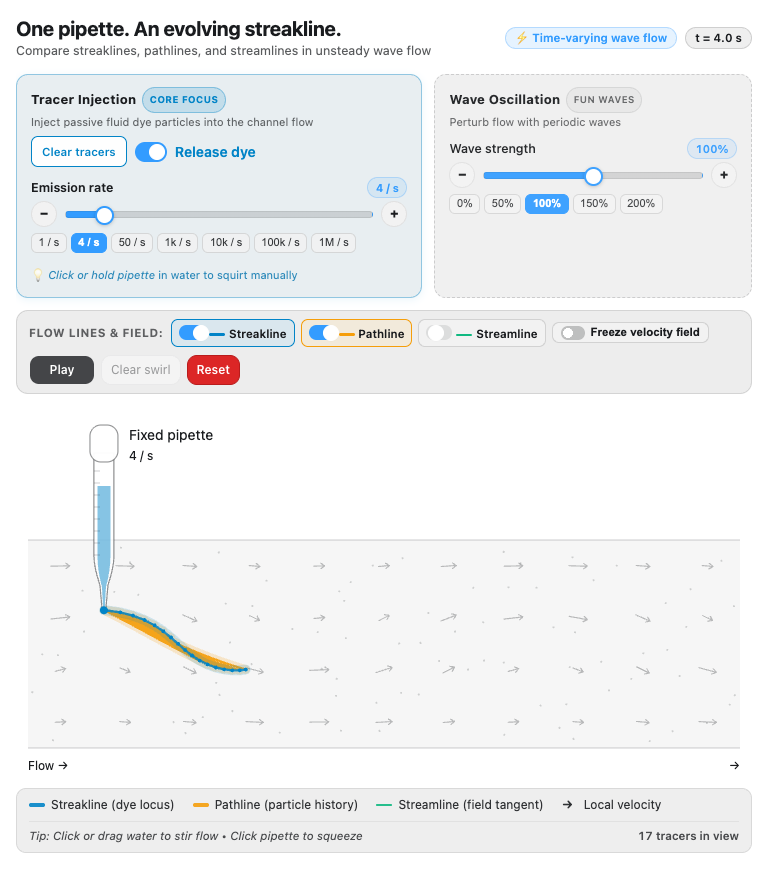
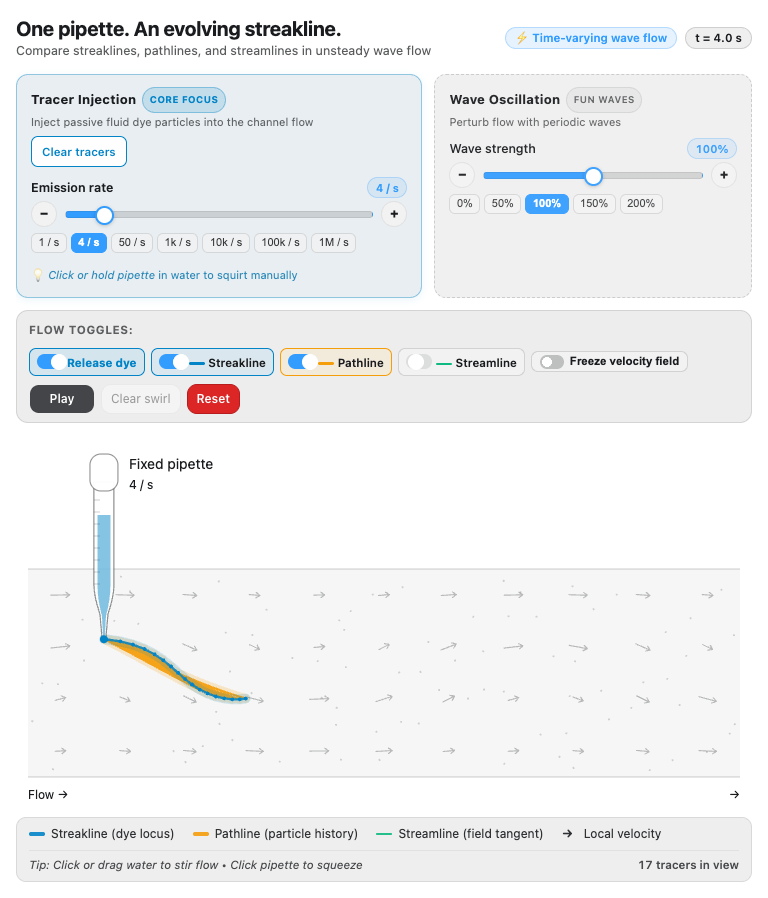
Move tracer release toggle to unified flow toggle line

diff --git a/dist/index.html b/dist/index.html
@@ -1349,13 +1349,7 @@ html&gt;body{padding:0}&lt;/style&gt;
           &lt;/div&gt;
           &lt;span class=&quot;sl-card-desc&quot;&gt;Inject passive fluid dye particles into the channel flow&lt;/span&gt;
         &lt;/div&gt;
-        &lt;div class=&quot;sl-tracer-actions&quot;&gt;
-          &lt;button type=&quot;button&quot; class=&quot;btn btn-secondary sl-btn-compact&quot; id=&quot;sl-clear-tracers&quot; disabled&gt;Clear tracers&lt;/button&gt;
-          &lt;label class=&quot;form-check form-switch sl-dye-switch&quot; for=&quot;sl-dye&quot;&gt;
-            &lt;input class=&quot;form-check-input&quot; type=&quot;checkbox&quot; id=&quot;sl-dye&quot;&gt;
-            &lt;span class=&quot;form-check-label sl-dye-label&quot;&gt;Release dye&lt;/span&gt;
-          &lt;/label&gt;
-        &lt;/div&gt;
+        &lt;button type=&quot;button&quot; class=&quot;btn btn-secondary sl-btn-compact&quot; id=&quot;sl-clear-tracers&quot; disabled&gt;Clear tracers&lt;/button&gt;
       &lt;/div&gt;
       &lt;label class=&quot;form-label&quot; for=&quot;sl-rate&quot;&gt;
         &lt;div class=&quot;sl-label-row&quot;&gt;
@@ -1425,8 +1419,14 @@ html&gt;body{padding:0}&lt;/style&gt;
   &lt;!-- Diagnostic Lines &amp; Action Controls Bar --&gt;
   &lt;div class=&quot;sl-control-deck&quot;&gt;
     &lt;div class=&quot;sl-lines-deck&quot;&gt;
-      &lt;span class=&quot;sl-deck-label&quot;&gt;Flow Lines &amp; Field:&lt;/span&gt;
+      &lt;span class=&quot;sl-deck-label&quot;&gt;Flow Toggles:&lt;/span&gt;
       &lt;div class=&quot;sl-lines-pills&quot;&gt;
+        &lt;label class=&quot;form-check form-switch sl-line-pill sl-pill-dye&quot; for=&quot;sl-dye&quot;&gt;
+          &lt;input class=&quot;form-check-input&quot; type=&quot;checkbox&quot; id=&quot;sl-dye&quot;&gt;
+          &lt;span class=&quot;form-check-label&quot;&gt;
+            &lt;span class=&quot;sl-pill-title&quot;&gt;Release dye&lt;/span&gt;
+          &lt;/span&gt;
+        &lt;/label&gt;
         &lt;label class=&quot;form-check form-switch sl-line-pill sl-pill-streak&quot; for=&quot;sl-line-toggle&quot;&gt;
           &lt;input class=&quot;form-check-input&quot; type=&quot;checkbox&quot; id=&quot;sl-line-toggle&quot;&gt;
           &lt;span class=&quot;form-check-label&quot;&gt;
@@ -1975,6 +1975,14 @@ html&gt;body{padding:0}&lt;/style&gt;
     border-color: color-mix(in srgb, var(--foreground) 30%, transparent);
     background: color-mix(in srgb, var(--foreground) 4%, var(--card));
   }
+  #streakline-lab .sl-line-pill.is-active.sl-pill-dye {
+    border-color: #0284c7;
+    background: color-mix(in srgb, #0284c7 12%, var(--card));
+  }
+  #streakline-lab .sl-line-pill.is-active.sl-pill-dye .sl-pill-title {
+    color: #0284c7;
+    font-weight: 700;
+  }
   #streakline-lab .sl-line-pill.is-active.sl-pill-streak {
     border-color: #0284c7;
     background: color-mix(in srgb, #0284c7 10%, var(--card));
@@ -2486,6 +2494,8 @@ html&gt;body{padding:0}&lt;/style&gt;
     pause.textContent = state.paused ? &#x27;Play&#x27; : &#x27;Pause&#x27;;
     pause.setAttribute(&#x27;aria-label&#x27;, state.paused ? &#x27;Play flow simulation&#x27; : &#x27;Pause flow simulation&#x27;);
     release.checked = state.injecting;
+    const dyePill = release.closest(&#x27;.sl-line-pill&#x27;);
+    if (dyePill) dyePill.classList.toggle(&#x27;is-active&#x27;, state.injecting);
     lineToggle.checked = state.line;
     const streakPill = lineToggle.closest(&#x27;.sl-line-pill&#x27;);
     if (streakPill) streakPill.classList.toggle(&#x27;is-active&#x27;, state.line);
@@ -2793,6 +2803,7 @@ html&gt;body{padding:0}&lt;/style&gt;
   layout(); requestAnimationFrame(animate);
 })();
 &lt;/script&gt;
+
 
 
 

diff --git a/outputs/streakline-demo.html b/outputs/streakline-demo.html
@@ -1349,13 +1349,7 @@ html&gt;body{padding:0}&lt;/style&gt;
           &lt;/div&gt;
           &lt;span class=&quot;sl-card-desc&quot;&gt;Inject passive fluid dye particles into the channel flow&lt;/span&gt;
         &lt;/div&gt;
-        &lt;div class=&quot;sl-tracer-actions&quot;&gt;
-          &lt;button type=&quot;button&quot; class=&quot;btn btn-secondary sl-btn-compact&quot; id=&quot;sl-clear-tracers&quot; disabled&gt;Clear tracers&lt;/button&gt;
-          &lt;label class=&quot;form-check form-switch sl-dye-switch&quot; for=&quot;sl-dye&quot;&gt;
-            &lt;input class=&quot;form-check-input&quot; type=&quot;checkbox&quot; id=&quot;sl-dye&quot;&gt;
-            &lt;span class=&quot;form-check-label sl-dye-label&quot;&gt;Release dye&lt;/span&gt;
-          &lt;/label&gt;
-        &lt;/div&gt;
+        &lt;button type=&quot;button&quot; class=&quot;btn btn-secondary sl-btn-compact&quot; id=&quot;sl-clear-tracers&quot; disabled&gt;Clear tracers&lt;/button&gt;
       &lt;/div&gt;
       &lt;label class=&quot;form-label&quot; for=&quot;sl-rate&quot;&gt;
         &lt;div class=&quot;sl-label-row&quot;&gt;
@@ -1425,8 +1419,14 @@ html&gt;body{padding:0}&lt;/style&gt;
   &lt;!-- Diagnostic Lines &amp; Action Controls Bar --&gt;
   &lt;div class=&quot;sl-control-deck&quot;&gt;
     &lt;div class=&quot;sl-lines-deck&quot;&gt;
-      &lt;span class=&quot;sl-deck-label&quot;&gt;Flow Lines &amp; Field:&lt;/span&gt;
+      &lt;span class=&quot;sl-deck-label&quot;&gt;Flow Toggles:&lt;/span&gt;
       &lt;div class=&quot;sl-lines-pills&quot;&gt;
+        &lt;label class=&quot;form-check form-switch sl-line-pill sl-pill-dye&quot; for=&quot;sl-dye&quot;&gt;
+          &lt;input class=&quot;form-check-input&quot; type=&quot;checkbox&quot; id=&quot;sl-dye&quot;&gt;
+          &lt;span class=&quot;form-check-label&quot;&gt;
+            &lt;span class=&quot;sl-pill-title&quot;&gt;Release dye&lt;/span&gt;
+          &lt;/span&gt;
+        &lt;/label&gt;
         &lt;label class=&quot;form-check form-switch sl-line-pill sl-pill-streak&quot; for=&quot;sl-line-toggle&quot;&gt;
           &lt;input class=&quot;form-check-input&quot; type=&quot;checkbox&quot; id=&quot;sl-line-toggle&quot;&gt;
           &lt;span class=&quot;form-check-label&quot;&gt;
@@ -1975,6 +1975,14 @@ html&gt;body{padding:0}&lt;/style&gt;
     border-color: color-mix(in srgb, var(--foreground) 30%, transparent);
     background: color-mix(in srgb, var(--foreground) 4%, var(--card));
   }
+  #streakline-lab .sl-line-pill.is-active.sl-pill-dye {
+    border-color: #0284c7;
+    background: color-mix(in srgb, #0284c7 12%, var(--card));
+  }
+  #streakline-lab .sl-line-pill.is-active.sl-pill-dye .sl-pill-title {
+    color: #0284c7;
+    font-weight: 700;
+  }
   #streakline-lab .sl-line-pill.is-active.sl-pill-streak {
     border-color: #0284c7;
     background: color-mix(in srgb, #0284c7 10%, var(--card));
@@ -2486,6 +2494,8 @@ html&gt;body{padding:0}&lt;/style&gt;
     pause.textContent = state.paused ? &#x27;Play&#x27; : &#x27;Pause&#x27;;
     pause.setAttribute(&#x27;aria-label&#x27;, state.paused ? &#x27;Play flow simulation&#x27; : &#x27;Pause flow simulation&#x27;);
     release.checked = state.injecting;
+    const dyePill = release.closest(&#x27;.sl-line-pill&#x27;);
+    if (dyePill) dyePill.classList.toggle(&#x27;is-active&#x27;, state.injecting);
     lineToggle.checked = state.line;
     const streakPill = lineToggle.closest(&#x27;.sl-line-pill&#x27;);
     if (streakPill) streakPill.classList.toggle(&#x27;is-active&#x27;, state.line);
@@ -2793,6 +2803,7 @@ html&gt;body{padding:0}&lt;/style&gt;
   layout(); requestAnimationFrame(animate);
 })();
 &lt;/script&gt;
+
 
 
 

diff --git a/work/streakline-preview.html b/work/streakline-preview.html
@@ -1349,13 +1349,7 @@ html&gt;body{padding:0}&lt;/style&gt;
           &lt;/div&gt;
           &lt;span class=&quot;sl-card-desc&quot;&gt;Inject passive fluid dye particles into the channel flow&lt;/span&gt;
         &lt;/div&gt;
-        &lt;div class=&quot;sl-tracer-actions&quot;&gt;
-          &lt;button type=&quot;button&quot; class=&quot;btn btn-secondary sl-btn-compact&quot; id=&quot;sl-clear-tracers&quot; disabled&gt;Clear tracers&lt;/button&gt;
-          &lt;label class=&quot;form-check form-switch sl-dye-switch&quot; for=&quot;sl-dye&quot;&gt;
-            &lt;input class=&quot;form-check-input&quot; type=&quot;checkbox&quot; id=&quot;sl-dye&quot;&gt;
-            &lt;span class=&quot;form-check-label sl-dye-label&quot;&gt;Release dye&lt;/span&gt;
-          &lt;/label&gt;
-        &lt;/div&gt;
+        &lt;button type=&quot;button&quot; class=&quot;btn btn-secondary sl-btn-compact&quot; id=&quot;sl-clear-tracers&quot; disabled&gt;Clear tracers&lt;/button&gt;
       &lt;/div&gt;
       &lt;label class=&quot;form-label&quot; for=&quot;sl-rate&quot;&gt;
         &lt;div class=&quot;sl-label-row&quot;&gt;
@@ -1425,8 +1419,14 @@ html&gt;body{padding:0}&lt;/style&gt;
   &lt;!-- Diagnostic Lines &amp; Action Controls Bar --&gt;
   &lt;div class=&quot;sl-control-deck&quot;&gt;
     &lt;div class=&quot;sl-lines-deck&quot;&gt;
-      &lt;span class=&quot;sl-deck-label&quot;&gt;Flow Lines &amp; Field:&lt;/span&gt;
+      &lt;span class=&quot;sl-deck-label&quot;&gt;Flow Toggles:&lt;/span&gt;
       &lt;div class=&quot;sl-lines-pills&quot;&gt;
+        &lt;label class=&quot;form-check form-switch sl-line-pill sl-pill-dye&quot; for=&quot;sl-dye&quot;&gt;
+          &lt;input class=&quot;form-check-input&quot; type=&quot;checkbox&quot; id=&quot;sl-dye&quot;&gt;
+          &lt;span class=&quot;form-check-label&quot;&gt;
+            &lt;span class=&quot;sl-pill-title&quot;&gt;Release dye&lt;/span&gt;
+          &lt;/span&gt;
+        &lt;/label&gt;
         &lt;label class=&quot;form-check form-switch sl-line-pill sl-pill-streak&quot; for=&quot;sl-line-toggle&quot;&gt;
           &lt;input class=&quot;form-check-input&quot; type=&quot;checkbox&quot; id=&quot;sl-line-toggle&quot;&gt;
           &lt;span class=&quot;form-check-label&quot;&gt;
@@ -1975,6 +1975,14 @@ html&gt;body{padding:0}&lt;/style&gt;
     border-color: color-mix(in srgb, var(--foreground) 30%, transparent);
     background: color-mix(in srgb, var(--foreground) 4%, var(--card));
   }
+  #streakline-lab .sl-line-pill.is-active.sl-pill-dye {
+    border-color: #0284c7;
+    background: color-mix(in srgb, #0284c7 12%, var(--card));
+  }
+  #streakline-lab .sl-line-pill.is-active.sl-pill-dye .sl-pill-title {
+    color: #0284c7;
+    font-weight: 700;
+  }
   #streakline-lab .sl-line-pill.is-active.sl-pill-streak {
     border-color: #0284c7;
     background: color-mix(in srgb, #0284c7 10%, var(--card));
@@ -2486,6 +2494,8 @@ html&gt;body{padding:0}&lt;/style&gt;
     pause.textContent = state.paused ? &#x27;Play&#x27; : &#x27;Pause&#x27;;
     pause.setAttribute(&#x27;aria-label&#x27;, state.paused ? &#x27;Play flow simulation&#x27; : &#x27;Pause flow simulation&#x27;);
     release.checked = state.injecting;
+    const dyePill = release.closest(&#x27;.sl-line-pill&#x27;);
+    if (dyePill) dyePill.classList.toggle(&#x27;is-active&#x27;, state.injecting);
     lineToggle.checked = state.line;
     const streakPill = lineToggle.closest(&#x27;.sl-line-pill&#x27;);
     if (streakPill) streakPill.classList.toggle(&#x27;is-active&#x27;, state.line);
@@ -2793,6 +2803,7 @@ html&gt;body{padding:0}&lt;/style&gt;
   layout(); requestAnimationFrame(animate);
 })();
 &lt;/script&gt;
+
 
 
 
